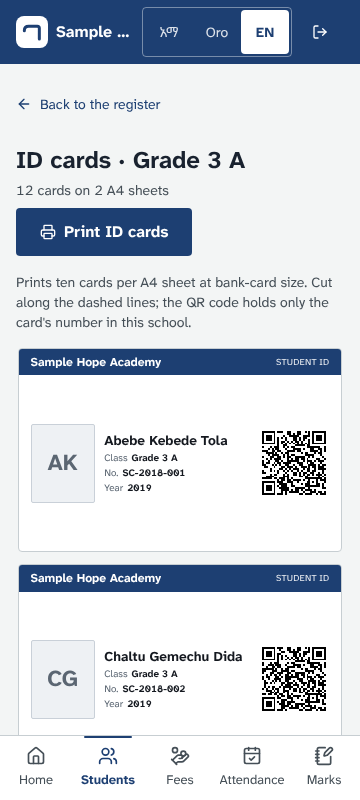
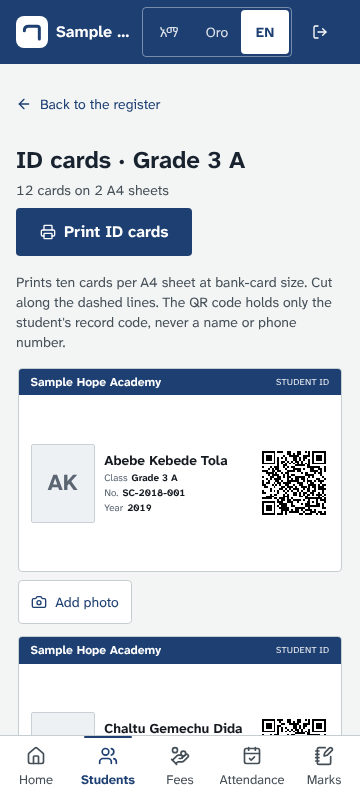
Student photos on ID cards: take or pick a photo per student, cropped and shrunk on the phone, stored privately per school (owner/manager only)

diff --git a/src/app/(app)/students/id-cards/page.tsx b/src/app/(app)/students/id-cards/page.tsx
@@ -7,7 +7,8 @@ import { EmptyState } from "@/components/galmee/empty-state";
 import { CARDS_PER_SHEET, chunk, initials, qrPath, studentCardPayload } from "@/lib/id-card";
 import { currentSchoolYear } from "@/lib/school-year";
 import { getSession } from "@/server/dal/session";
-import { listClasses, listRegister, type RegisterRowDTO } from "@/server/dal/students";
+import { listClasses, listRegister, signedPhotoUrls, type RegisterRowDTO } from "@/server/dal/students";
+import { StudentPhotoButton } from "@/components/student-photo-button";
 import { marksQuerySchema } from "@/server/validation";
 
 /** Student ID cards for one class, laid out ten to an A4 sheet (ID-1 size, 85.6 x 54 mm). */
@@ -17,13 +18,21 @@ export default async function IdCardsPage({
   searchParams: Promise<Record<string, string | string[] | undefined>>;
 }) {
   const query = marksQuerySchema.parse(await searchParams);
-  const [{ tenant }, classes, t] = await Promise.all([getSession(), listClasses(), getTranslations("students")]);
+  const [{ tenant, profile }, classes, t] = await Promise.all([getSession(), listClasses(), getTranslations("students")]);
   const selected = classes.find((c) => c.id === query.class);
   if (!selected) notFound();
   const year = currentSchoolYear();
   const register = await listRegister({ year, classId: selected.id });
   const classLabel = `${selected.grade} ${selected.section}`;
   const sheets = chunk(register, CARDS_PER_SHEET);
+  const photos = await signedPhotoUrls(register.flatMap((r) => (r.photoPath ? [r.photoPath] : [])));
+  const canEditPhotos = profile.role !== "staff";
+  const photoLabels = {
+    add: t("photoAdd"),
+    change: t("photoChange"),
+    saving: t("photoSaving"),
+    failed: t("photoFailed"),
+  };
 
   return (
     <div className="grid gap-4">
@@ -60,13 +69,23 @@ export default async function IdCardsPage({
               className="id-sheet grid justify-items-center gap-3 sm:grid-cols-2 print:grid-cols-[85.6mm_85.6mm] print:justify-center print:gap-0 print:break-after-page print:last:break-after-auto"
             >
               {sheet.map((r) => (
-                <StudentCard
-                  key={r.enrollmentId}
-                  row={r}
-                  school={tenant.name}
-                  year={year}
-                  labels={{ card: t("idCardTitle"), cls: t("class"), no: t("studentNoShort"), year: t("yearShort") }}
-                />
+                <div key={r.enrollmentId} className="grid w-full max-w-[85.6mm] gap-2 print:contents">
+                  <StudentCard
+                    row={r}
+                    photoUrl={r.photoPath ? photos[r.photoPath] : undefined}
+                    school={tenant.name}
+                    year={year}
+                    labels={{ card: t("idCardTitle"), cls: t("class"), no: t("studentNoShort"), year: t("yearShort") }}
+                  />
+                  {canEditPhotos ? (
+                    <StudentPhotoButton
+                      tenantId={tenant.id}
+                      studentId={r.studentId}
+                      hasPhoto={Boolean(r.photoPath)}
+                      labels={photoLabels}
+                    />
+                  ) : null}
+                </div>
               ))}
             </section>
           ))}
@@ -78,11 +97,13 @@ export default async function IdCardsPage({
 
 function StudentCard({
   row,
+  photoUrl,
   school,
   year,
   labels,
 }: {
   row: RegisterRowDTO;
+  photoUrl?: string;
   school: string;
   year: number;
   labels: { card: string; cls: string; no: string; year: string };
@@ -98,12 +119,17 @@ function StudentCard({
         <p className="shrink-0 text-[2.4mm] leading-tight tracking-wide uppercase opacity-90">{labels.card}</p>
       </header>
       <div className="grid min-h-0 grid-cols-[17mm_1fr_19mm] items-center gap-[2.5mm] px-[3mm] py-[2mm]">
-        <div
-          aria-hidden
-          className="grid h-[21mm] w-[17mm] place-items-center rounded-sm border border-[#c9d0d8] bg-[#eef1f4] text-[6mm] font-bold text-[#5b6672]"
-        >
-          {initials(row.fullName)}
-        </div>
+        {photoUrl ? (
+          // eslint-disable-next-line @next/next/no-img-element -- short-lived signed URL from private storage
+          <img src={photoUrl} alt="" className="h-[21mm] w-[17mm] rounded-sm border border-[#c9d0d8] object-cover" />
+        ) : (
+          <div
+            aria-hidden
+            className="grid h-[21mm] w-[17mm] place-items-center rounded-sm border border-[#c9d0d8] bg-[#eef1f4] text-[6mm] font-bold text-[#5b6672]"
+          >
+            {initials(row.fullName)}
+          </div>
+        )}
         <dl className="grid min-w-0 gap-[0.8mm] text-[2.6mm] leading-tight">
           <dt className="sr-only">Name</dt>
           <dd className="line-clamp-2 text-[3.6mm] font-bold">{row.fullName}</dd>

diff --git a/src/components/student-photo-button.tsx b/src/components/student-photo-button.tsx
@@ -1,0 +1,86 @@
+"use client";
+
+import { useRef, useState, useTransition } from "react";
+import { useRouter } from "next/navigation";
+import { Camera, Loader2 } from "lucide-react";
+import { setStudentPhotoAction } from "@/actions/students";
+import { createClient } from "@/lib/supabase/client";
+import { coverCrop, PHOTO_HEIGHT, PHOTO_WIDTH } from "@/lib/photo-resize";
+
+async function toIdPhoto(file: File): Promise<Blob> {
+  const bitmap = await createImageBitmap(file);
+  const { sx, sy, sw, sh } = coverCrop(bitmap.width, bitmap.height);
+  const canvas = document.createElement("canvas");
+  canvas.width = PHOTO_WIDTH;
+  canvas.height = PHOTO_HEIGHT;
+  const ctx = canvas.getContext("2d");
+  if (!ctx) throw new Error("no canvas");
+  ctx.drawImage(bitmap, sx, sy, sw, sh, 0, 0, PHOTO_WIDTH, PHOTO_HEIGHT);
+  bitmap.close();
+  const blob = await new Promise<Blob | null>((resolve) => canvas.toBlob(resolve, "image/jpeg", 0.82));
+  if (!blob) throw new Error("encode failed");
+  return blob;
+}
+
+/** Take or pick a photo, shrink it on the phone (roughly 20 KB), upload it and link it to the student. */
+export function StudentPhotoButton({
+  tenantId,
+  studentId,
+  hasPhoto,
+  labels,
+}: {
+  tenantId: string;
+  studentId: string;
+  hasPhoto: boolean;
+  labels: { add: string; change: string; saving: string; failed: string };
+}) {
+  const input = useRef<HTMLInputElement>(null);
+  const router = useRouter();
+  const [busy, setBusy] = useState(false);
+  const [failed, setFailed] = useState(false);
+  const [, startTransition] = useTransition();
+
+  async function onFile(file: File | undefined) {
+    if (!file) return;
+    setBusy(true);
+    setFailed(false);
+    try {
+      const photo = await toIdPhoto(file);
+      const supabase = createClient();
+      const { error } = await supabase.storage
+        .from("sc-student-photos")
+        .upload(`${tenantId}/${studentId}.jpg`, photo, { upsert: true, contentType: "image/jpeg", cacheControl: "60" });
+      if (error) throw error;
+      const result = await setStudentPhotoAction(studentId);
+      if (!result.ok) throw new Error("link failed");
+      startTransition(() => router.refresh());
+    } catch {
+      setFailed(true);
+    } finally {
+      setBusy(false);
+      if (input.current) input.current.value = "";
+    }
+  }
+
+  return (
+    <div className="flex items-center gap-2 print:hidden">
+      <label className="inline-flex h-11 cursor-pointer items-center gap-2 rounded-md border border-border bg-card px-3 text-sm font-medium text-primary has-[:focus-visible]:ring-2 has-[:focus-visible]:ring-ring">
+        {busy ? <Loader2 className="size-4 animate-spin" aria-hidden /> : <Camera className="size-4" aria-hidden />}
+        {busy ? labels.saving : hasPhoto ? labels.change : labels.add}
+        <input
+          ref={input}
+          type="file"
+          accept="image/*"
+          className="sr-only"
+          disabled={busy}
+          onChange={(e) => onFile(e.target.files?.[0])}
+        />
+      </label>
+      {failed ? (
+        <p role="alert" className="text-sm text-destructive">
+          {labels.failed}
+        </p>
+      ) : null}
+    </div>
+  );
+}

diff --git a/src/server/dal/students.ts b/src/server/dal/students.ts
@@ -6,6 +6,7 @@ export type ClassDTO = { id: string; grade: string; section: string };
 export type RegisterRowDTO = {
   enrollmentId: string;
   studentId: string;
+  photoPath: string | null;
   rollNo: number | null;
   fullName: string;
   studentNo: string | null;
@@ -39,7 +40,7 @@ export async function listRegister(input: {
   const supabase = await createClient();
   let query = supabase
     .from("sc_student_register")
-    .select("enrollment_id, student_id, roll_no, full_name, student_no, grade, section, guardian_name, guardian_phone")
+    .select("enrollment_id, student_id, roll_no, full_name, student_no, grade, section, guardian_name, guardian_phone, photo_path")
     .eq("academic_year", input.year)
     .eq("status", "active");
 
@@ -61,6 +62,7 @@ export async function listRegister(input: {
   return data.map((r) => ({
     enrollmentId: r.enrollment_id,
     studentId: r.student_id,
+    photoPath: r.photo_path,
     rollNo: r.roll_no,
     fullName: r.full_name,
     studentNo: r.student_no,
@@ -174,4 +176,25 @@ export async function addStudent(input: {
     p_relation: input.relation,
   });
   return toResult(error);
+}
+
+const PHOTO_BUCKET = "sc-student-photos";
+const PHOTO_URL_SECONDS = 60 * 60;
+
+/** Short-lived signed URLs for student photos (the bucket is private), keyed by path. */
+export async function signedPhotoUrls(paths: string[]): Promise<Record<string, string>> {
+  if (paths.length === 0) return {};
+  const supabase = await createClient();
+  const { data, error } = await supabase.storage.from(PHOTO_BUCKET).createSignedUrls(paths, PHOTO_URL_SECONDS);
+  if (error || !data) return {};
+  const out: Record<string, string> = {};
+  for (const item of data) if (item.path && item.signedUrl) out[item.path] = item.signedUrl;
+  return out;
+}
+
+/** Records the uploaded photo on the student (owner/manager only, enforced in the database). */
+export async function setStudentPhoto(studentId: string): Promise<boolean> {
+  const supabase = await createClient();
+  const { error } = await supabase.rpc("sc_set_student_photo", { p_student_id: studentId });
+  return !error;
 }

diff --git a/src/lib/database.types.ts b/src/lib/database.types.ts
@@ -83,6 +83,7 @@ export type Database = {
           gender: string | null
           date_of_birth: string | null
           student_no: string | null
+          photo_path: string | null
           guardian_id: string | null
           status: string
           created_at: string
@@ -94,6 +95,7 @@ export type Database = {
           gender?: string | null
           date_of_birth?: string | null
           student_no?: string | null
+          photo_path?: string | null
           guardian_id?: string | null
           status?: string
           created_at?: string
@@ -105,6 +107,7 @@ export type Database = {
           gender?: string | null
           date_of_birth?: string | null
           student_no?: string | null
+          photo_path?: string | null
           guardian_id?: string | null
           status?: string
           created_at?: string
@@ -1156,6 +1159,7 @@ export type Database = {
           guardian_id: string | null
           guardian_name: string | null
           guardian_phone: string | null
+          photo_path: string | null
         }
         Relationships: []
       }
@@ -1226,6 +1230,10 @@ export type Database = {
       sc_generate_invoices: {
         Args: { p_academic_year: number; p_period: string; p_period_key: string; p_due?: string }
         Returns: number
+      }
+      sc_set_student_photo: {
+        Args: { p_student_id: string }
+        Returns: string
       }
       sc_record_fee_payment: {
         Args: { p_invoice: string; p_amount: number; p_method?: Database["public"]["Enums"]["pay_method"]; p_reference?: string; p_client_ref?: string }

diff --git a/src/actions/students.ts b/src/actions/students.ts
@@ -4,7 +4,8 @@ import { revalidatePath } from "next/cache";
 import { redirect } from "next/navigation";
 import { currentSchoolYear } from "@/lib/school-year";
 import { getSession } from "@/server/dal/session";
-import { addStudent, createClass } from "@/server/dal/students";
+import { addStudent, createClass, setStudentPhoto } from "@/server/dal/students";
+import { z } from "zod";
 import { classSchema, formToObject, studentSchema } from "@/server/validation";
 import type { FormState } from "./auth";
 
@@ -36,4 +37,15 @@ export async function addStudentAction(_prev: FormState, formData: FormData): Pr
   if (!result.ok) return { error: result.reason === "duplicate" ? "errorStudentNoTaken" : "errorSave" };
   revalidatePath("/students", "layout");
   redirect(`/students/new?class=${parsed.data.classId}&added=${crypto.randomUUID().slice(0, 8)}`);
+}
+
+/** Called after the browser uploaded the photo to storage; links it to the student. */
+export async function setStudentPhotoAction(studentId: string): Promise<{ ok: boolean }> {
+  const { profile } = await getSession();
+  if (profile.role === "staff") return { ok: false };
+  const id = z.uuid().safeParse(studentId);
+  if (!id.success) return { ok: false };
+  const ok = await setStudentPhoto(id.data);
+  if (ok) revalidatePath("/students/id-cards");
+  return { ok };
 }

diff --git a/src/lib/photo-resize.ts b/src/lib/photo-resize.ts
@@ -1,0 +1,14 @@
+/** ID photo size in pixels (3:4 portrait, sharp enough for an 17 x 21 mm print at 300 dpi). */
+export const PHOTO_WIDTH = 240;
+export const PHOTO_HEIGHT = 300;
+
+/** Centre crop of a source image to the photo's 4:5 frame: the source rectangle to draw. */
+export function coverCrop(srcW: number, srcH: number, dstW = PHOTO_WIDTH, dstH = PHOTO_HEIGHT) {
+  const target = dstW / dstH;
+  if (srcW / srcH > target) {
+    const w = Math.round(srcH * target);
+    return { sx: Math.round((srcW - w) / 2), sy: 0, sw: w, sh: srcH };
+  }
+  const h = Math.round(srcW / target);
+  return { sx: 0, sy: Math.round((srcH - h) / 2), sw: srcW, sh: h };
+}

diff --git a/src/lib/photo-resize.test.ts b/src/lib/photo-resize.test.ts
@@ -1,0 +1,14 @@
+import { describe, expect, it } from "vitest";
+import { coverCrop } from "@/lib/photo-resize";
+
+describe("coverCrop", () => {
+  it("crops the sides of a landscape photo", () => {
+    expect(coverCrop(4000, 3000)).toEqual({ sx: 800, sy: 0, sw: 2400, sh: 3000 });
+  });
+  it("crops top and bottom of a tall phone photo", () => {
+    expect(coverCrop(1080, 2400)).toEqual({ sx: 0, sy: 525, sw: 1080, sh: 1350 });
+  });
+  it("keeps an exact 4:5 photo whole", () => {
+    expect(coverCrop(480, 600)).toEqual({ sx: 0, sy: 0, sw: 480, sh: 600 });
+  });
+});

diff --git a/ROADMAP.md b/ROADMAP.md
@@ -47,6 +47,11 @@
 - [x] Print + reprint from the receipt screen
 - [x] Payment-received SMS row queued by `sc_record_fee_payment`
 
+## Student ID cards
+
+- [x] ID card per student: photo, QR code, school name, class and year; printed ten to an A4 sheet per class
+- [x] Photo taken or picked on the phone, cropped and shrunk before upload; private storage, owner/manager only
+
 ## M-after: Tier 2 and 3
 
 - [ ] Fee-due SMS generator per class/period into notifications
